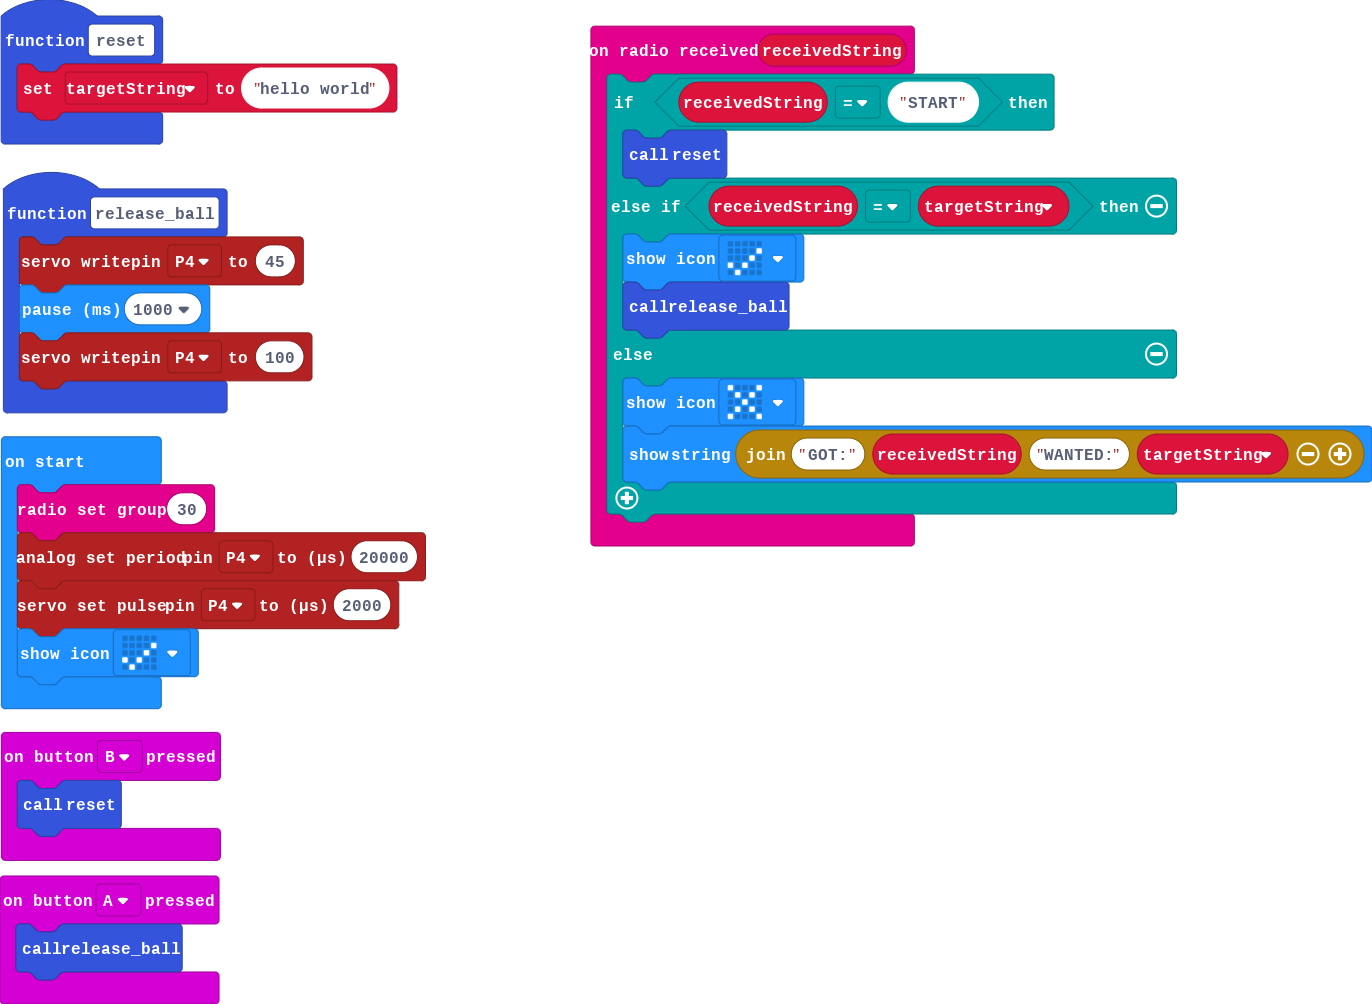
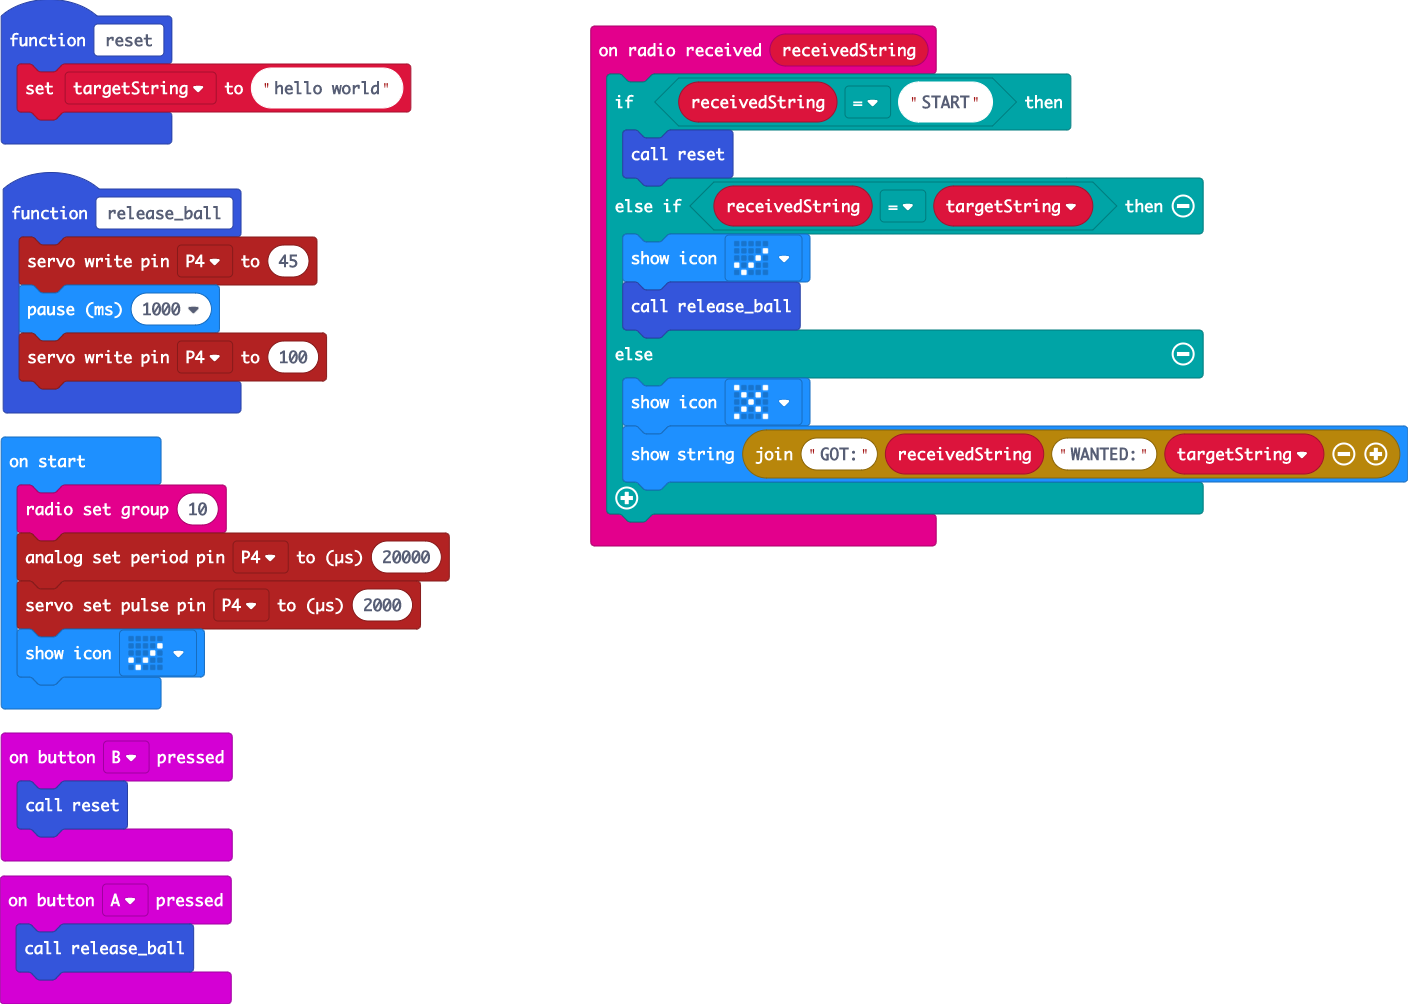
Fix radio channel - use 10

diff --git a/main.ts b/main.ts
@@ -24,7 +24,7 @@ input.onButtonPressed(Button.A, function () {
     release_ball()
 })
 let targetString = ""
-radio.setGroup(30)
+radio.setGroup(10)
 pins.analogSetPeriod(AnalogPin.P4, 20000)
 pins.servoSetPulse(AnalogPin.P4, 2000)
 basic.showIcon(IconNames.Yes)
